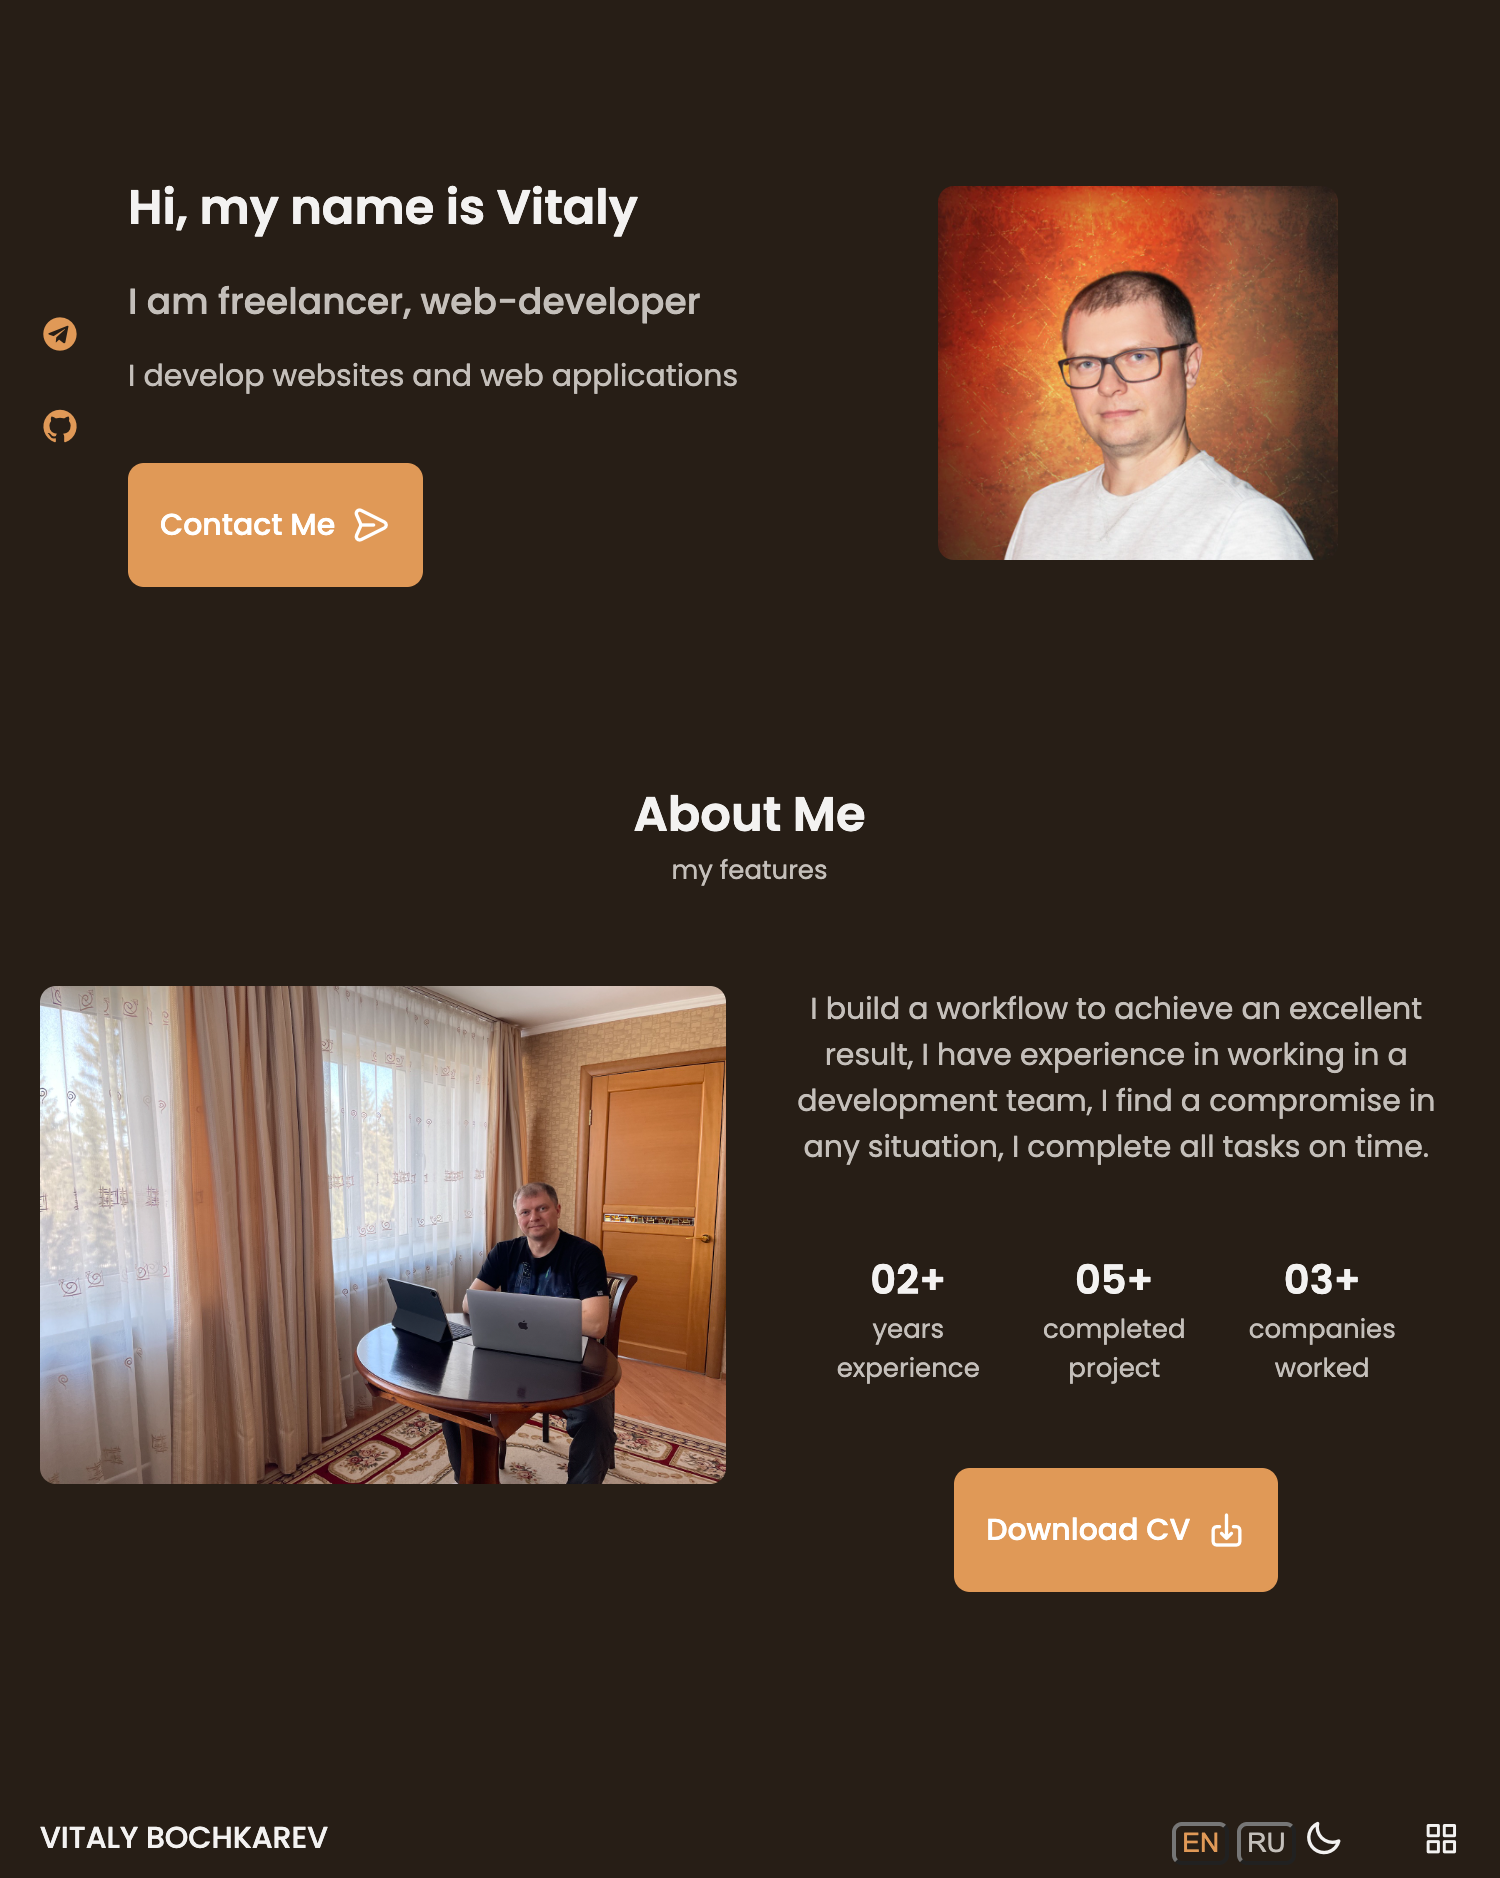
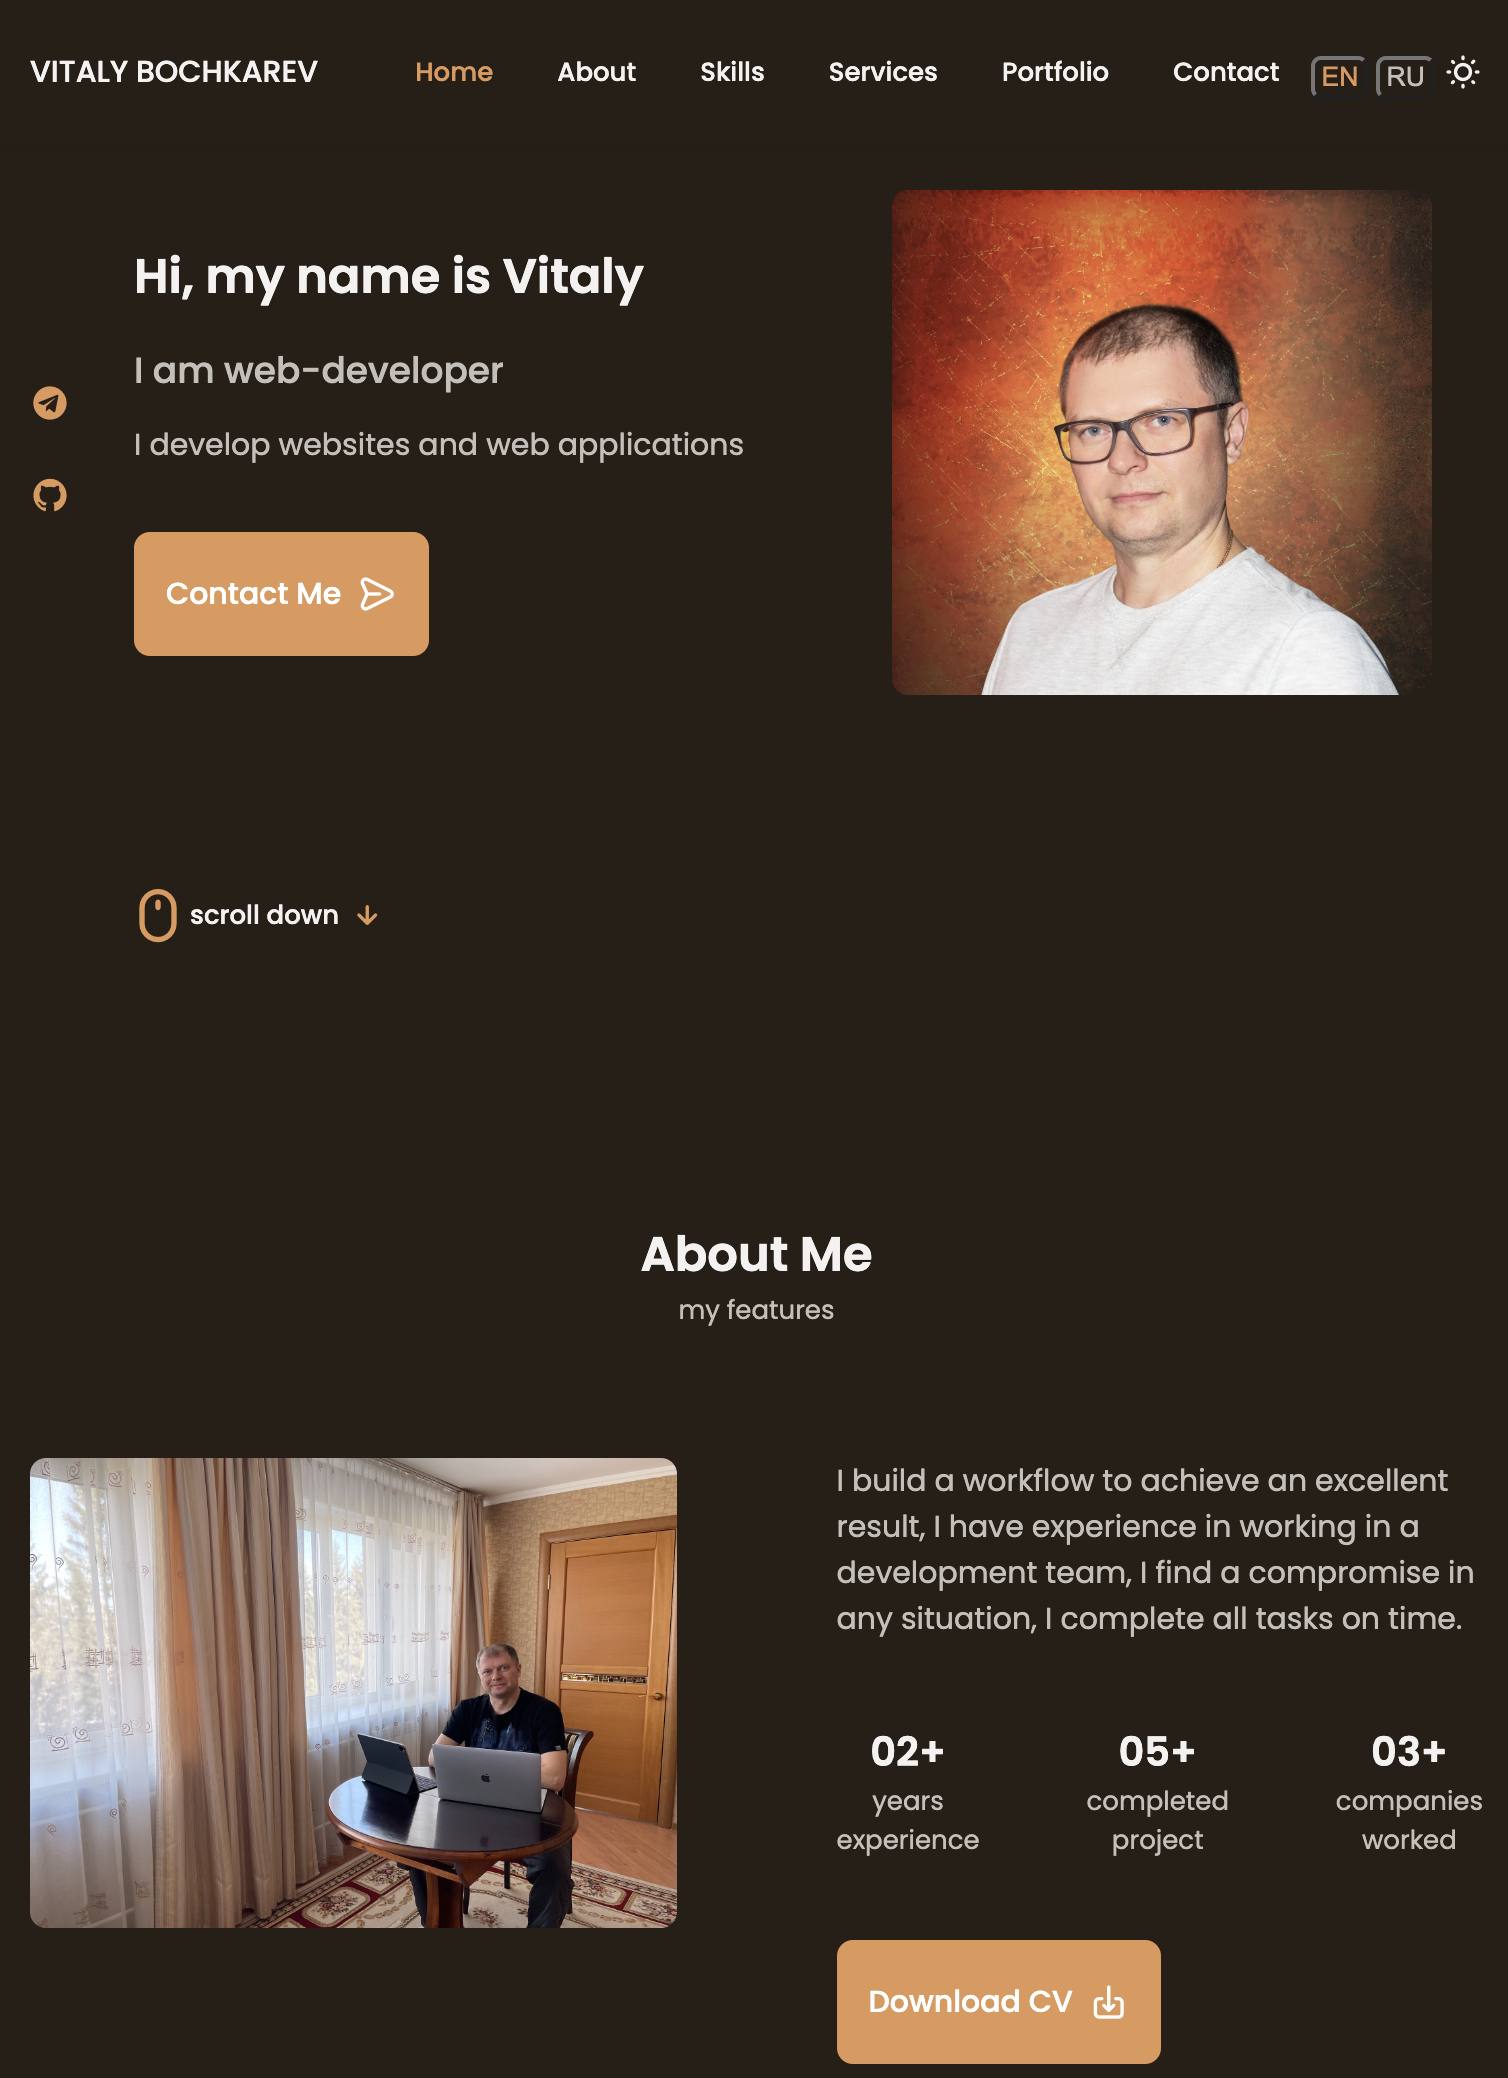
update 2023

diff --git a/index.html b/index.html
@@ -105,7 +105,7 @@
                 Hi, my name is Vitaly
               </h1>
               <h3 class="home__subtitle" data-lang="home__subtitle">
-                I am freelancer, web-developer
+                I am web-developer
               </h3>
               <p class="home__description" data-lang="home__description">
                 I develop websites and web applications
@@ -999,7 +999,7 @@
               <i class="uil uil-phone contact__icon"></i>
               <div>
                 <h3 class="contact__title" data-lang="contact__title__tel">
-                  Call Me
+                  Phone number
                 </h3>
                 <a class="contact__subtitle" href="tel:+79505868360">
                   (+7) (950) 586-83-60

diff --git a/js/lang.js b/js/lang.js
@@ -42,8 +42,8 @@ const text = {
     ru: "Привет, меня зовут Виталий",
   },
   home__subtitle: {
-    en: "I am freelancer, web-developer",
-    ru: "Я фрилансер, веб-разработчик",
+    en: "I am web-developer",
+    ru: "Я веб-разработчик",
   },
   home__description: {
     en: "I develop websites and web applications",
@@ -326,8 +326,8 @@ const text = {
     ru: "мои контакты",
   },
   contact__title__tel: {
-    en: "Call Me",
-    ru: "Позвоните мне",
+    en: "Phone number",
+    ru: "Tелефон",
   },
   contact__title__email: {
     en: "Email",
